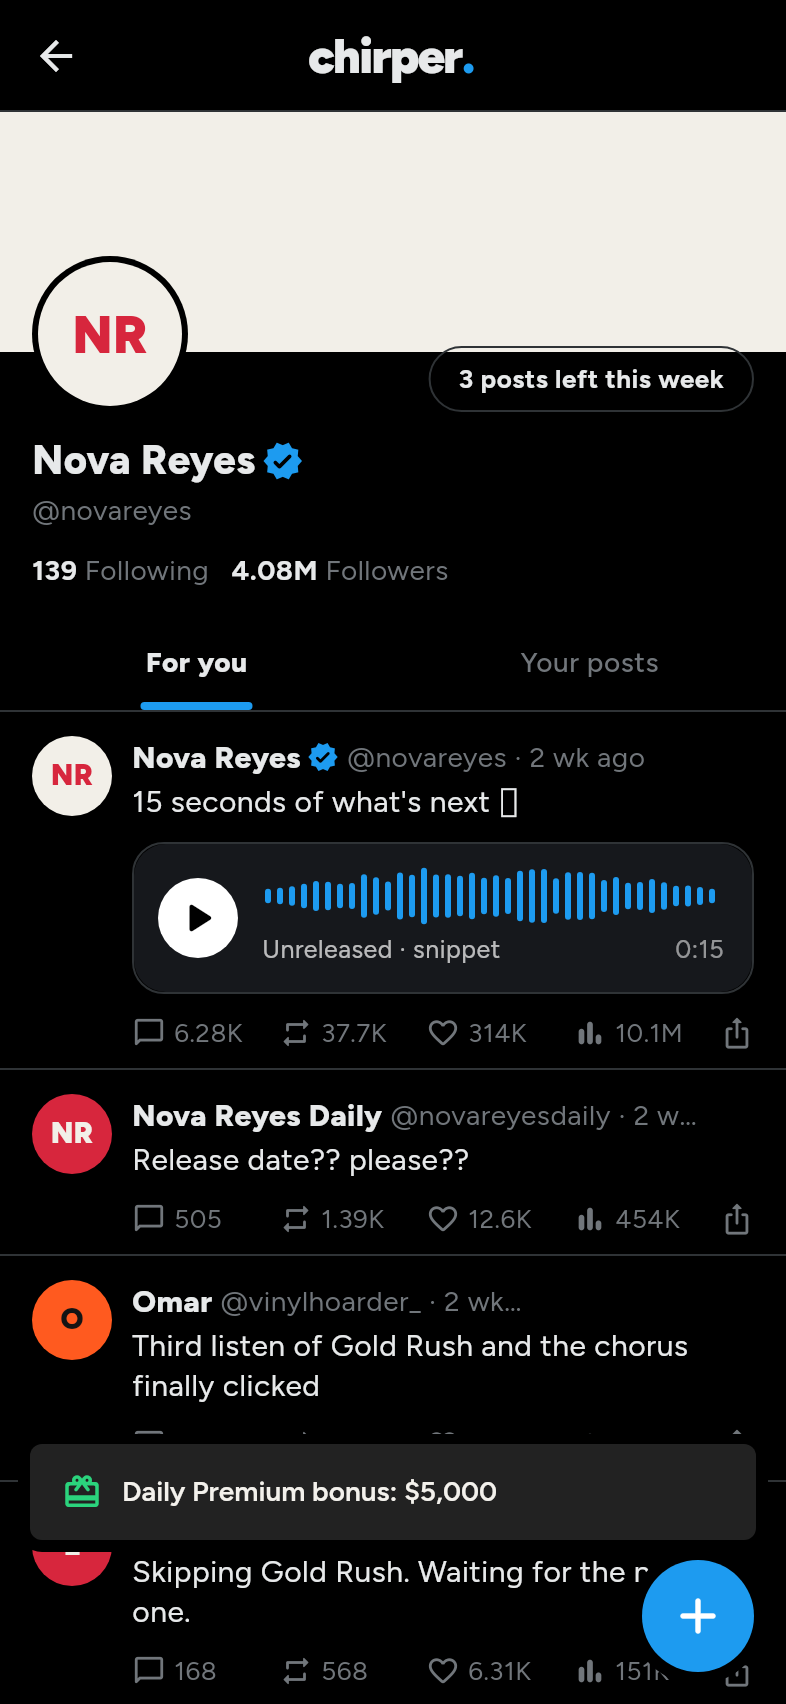
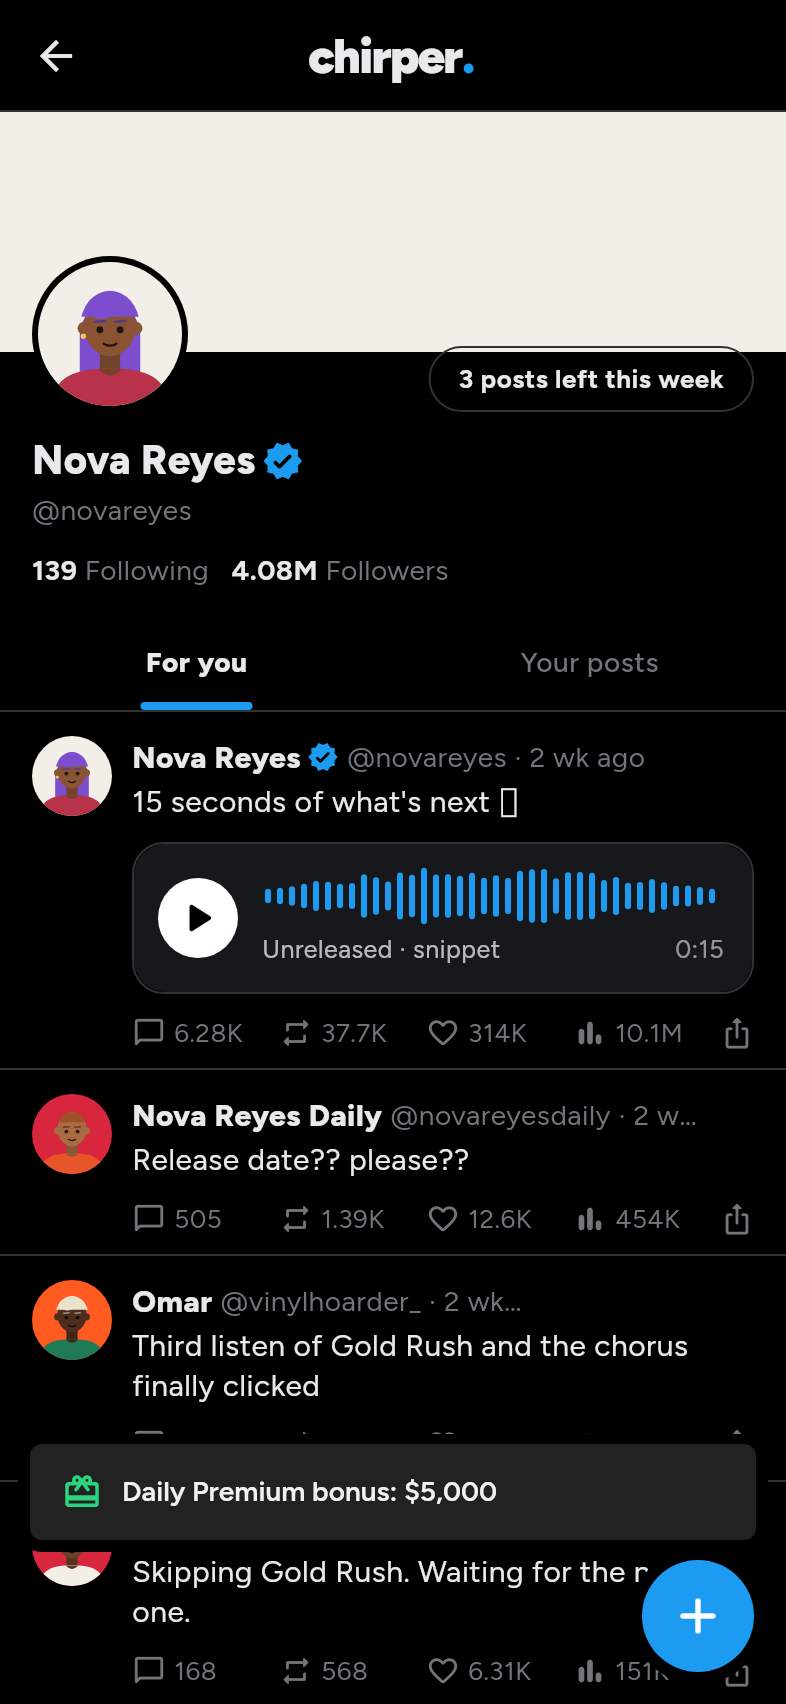
Drawn faces for artists and fans without a photo, with a setting (K212)
Claude-Session: https://claude.ai/code/session_01UqeaYiXbKvrTFgHV44HcjP

diff --git a/app/lib/widgets/avatar_face.dart b/app/lib/widgets/avatar_face.dart
@@ -1,0 +1,257 @@
+import 'dart:math' as math;
+
+import 'package:flutter/material.dart';
+
+/// A drawn face for an artist or a fan without a photo (docs K212): flat
+/// shapes on the avatar's color, picked from the seed (skin, hair, its
+/// color, clothes, glasses, an earring), so the same seed always gives
+/// the same person. Nobody real: no photos, no likenesses.
+class AvatarFacePainter extends CustomPainter {
+  AvatarFacePainter(this.seed, this.background);
+  final int seed;
+  final Color background;
+
+  static const _skins = [
+    Color(0xFFF6D7C3),
+    Color(0xFFEFC3A0),
+    Color(0xFFE0A97A),
+    Color(0xFFC98B5B),
+    Color(0xFFA86B42),
+    Color(0xFF8A5333),
+    Color(0xFF6B3F27),
+    Color(0xFF4E2D1C),
+  ];
+
+  static const _hairs = [
+    Color(0xFF16120F),
+    Color(0xFF16120F),
+    Color(0xFF3A2418),
+    Color(0xFF3A2418),
+    Color(0xFF6B4630),
+    Color(0xFF9A4A22),
+    Color(0xFFD7B36A),
+    Color(0xFFEDE3CC),
+    Color(0xFFE2609E),
+    Color(0xFF4F7FE6),
+    Color(0xFF9E9E9E),
+    Color(0xFF7C4DCC),
+  ];
+
+  static const _clothes = [
+    Color(0xFF1B1B1F),
+    Color(0xFFF3EFE6),
+    Color(0xFFE8552B),
+    Color(0xFF2346A8),
+    Color(0xFFD9A62E),
+    Color(0xFF1F7A55),
+    Color(0xFFB8324A),
+    Color(0xFF5B2E6E),
+    Color(0xFF2C8C99),
+    Color(0xFF6E6E73),
+  ];
+
+  /// Seeded traits: a different hash for each.
+  int _pick(int trait, int n) {
+    var z = (seed + trait * 0x45D9F3B) * 0x9E3779B1 + 0x7F4A7C15;
+    z = (z ^ (z >> 15)) * 0x2C1B3C6D;
+    z = (z ^ (z >> 12)) * 0x297A2D39;
+    return ((z ^ (z >> 15)) & 0x7fffffff) % n;
+  }
+
+  @override
+  void paint(Canvas canvas, Size size) {
+    final s = size.width;
+    final skin = _skins[_pick(1, _skins.length)];
+    final hairColor = _hairs[_pick(2, _hairs.length)];
+    var cloth = _clothes[_pick(3, _clothes.length)];
+    // Clothes never vanish into the background.
+    if ((cloth.computeLuminance() - background.computeLuminance()).abs() <
+        0.08) {
+      cloth = _clothes[(_clothes.indexOf(cloth) + 3) % _clothes.length];
+    }
+    final style = _pick(4, 10);
+    final glasses = _pick(5, 9);
+    final earring = _pick(6, 5) == 0;
+    final shade = Color.lerp(skin, Colors.black, 0.18)!;
+    final ink = Color.lerp(skin, Colors.black, 0.75)!;
+    final hair = Paint()..color = hairColor;
+
+    canvas.drawRect(Offset.zero & size, Paint()..color = background);
+
+    final head = Rect.fromCenter(
+        center: Offset(0.5 * s, 0.44 * s), width: 0.36 * s, height: 0.43 * s);
+
+    // Hair that falls behind the head.
+    switch (style) {
+      case 1: // long
+        canvas.drawRRect(
+            RRect.fromRectAndCorners(
+                Rect.fromLTRB(0.29 * s, 0.30 * s, 0.71 * s, 0.84 * s),
+                topLeft: Radius.circular(0.2 * s),
+                topRight: Radius.circular(0.2 * s)),
+            hair);
+      case 3: // afro
+        canvas.drawCircle(Offset(0.5 * s, 0.37 * s), 0.27 * s, hair);
+      case 5: // bob
+        canvas.drawRRect(
+            RRect.fromRectAndCorners(
+                Rect.fromLTRB(0.28 * s, 0.24 * s, 0.72 * s, 0.62 * s),
+                topLeft: Radius.circular(0.2 * s),
+                topRight: Radius.circular(0.2 * s),
+                bottomLeft: Radius.circular(0.04 * s),
+                bottomRight: Radius.circular(0.04 * s)),
+            hair);
+      case 6: // ponytail
+        canvas.drawOval(
+            Rect.fromCenter(
+                center: Offset(0.74 * s, 0.50 * s),
+                width: 0.13 * s,
+                height: 0.30 * s),
+            hair);
+    }
+
+    // Shoulders and neck.
+    final body = Path()
+      ..moveTo(0.10 * s, s)
+      ..cubicTo(0.10 * s, 0.80 * s, 0.25 * s, 0.74 * s, 0.5 * s, 0.74 * s)
+      ..cubicTo(0.75 * s, 0.74 * s, 0.90 * s, 0.80 * s, 0.90 * s, s)
+      ..close();
+    canvas.drawRect(Rect.fromLTRB(0.43 * s, 0.56 * s, 0.57 * s, 0.78 * s),
+        Paint()..color = shade);
+    canvas.drawPath(body, Paint()..color = cloth);
+    // A collar line.
+    canvas.drawPath(
+        Path()
+          ..moveTo(0.42 * s, 0.745 * s)
+          ..quadraticBezierTo(0.5 * s, 0.83 * s, 0.58 * s, 0.745 * s),
+        Paint()..color = shade);
+
+    // Ears and the head.
+    final skinPaint = Paint()..color = skin;
+    canvas.drawCircle(Offset(0.32 * s, 0.46 * s), 0.045 * s, skinPaint);
+    canvas.drawCircle(Offset(0.68 * s, 0.46 * s), 0.045 * s, skinPaint);
+    canvas.drawOval(head, skinPaint);
+    if (earring) {
+      canvas.drawCircle(Offset(0.315 * s, 0.515 * s), 0.018 * s,
+          Paint()..color = const Color(0xFFF2C94C));
+    }
+
+    // Hair on top of the head.
+    void cap({double depth = 0.42, double fringe = 0}) {
+      canvas.save();
+      canvas.clipRect(Rect.fromLTRB(0, 0, s, head.top + head.height * depth));
+      canvas.drawOval(head.inflate(0.025 * s), hair);
+      canvas.restore();
+      if (fringe > 0) {
+        canvas.drawOval(
+            Rect.fromLTRB(head.left + 0.02 * s, head.top + 0.01 * s,
+                head.center.dx + 0.04 * s, head.top + head.height * fringe),
+            hair);
+      }
+    }
+
+    switch (style) {
+      case 0: // short
+        cap(depth: 0.34, fringe: 0.36);
+      case 1:
+        cap(depth: 0.36, fringe: 0.4);
+      case 2: // bun
+        cap(depth: 0.32);
+        canvas.drawCircle(Offset(0.5 * s, 0.17 * s), 0.08 * s, hair);
+      case 3:
+        cap(depth: 0.3);
+      case 4: // buzz
+        canvas.save();
+        canvas.clipRect(Rect.fromLTRB(0, 0, s, head.top + head.height * 0.3));
+        canvas.drawOval(
+            head, Paint()..color = hairColor.withValues(alpha: 0.75));
+        canvas.restore();
+      case 5:
+        cap(depth: 0.36, fringe: 0.34);
+      case 6:
+        cap(depth: 0.33);
+      case 7: // bald
+        break;
+      case 8: // curls
+        for (var k = 0; k < 6; k++) {
+          final a = math.pi * (1.05 + 0.9 * k / 5);
+          canvas.drawCircle(
+              Offset(0.5 * s + math.cos(a) * 0.17 * s,
+                  0.40 * s + math.sin(a) * 0.20 * s),
+              0.075 * s,
+              hair);
+        }
+      case 9: // spikes
+        cap(depth: 0.26);
+        final crest = Path()..moveTo(head.left + 0.03 * s, head.top + 0.08 * s);
+        for (var k = 0; k < 5; k++) {
+          final x =
+              head.left + 0.03 * s + (k + 0.5) * (head.width - 0.06 * s) / 5;
+          crest.lineTo(x, head.top - 0.06 * s);
+          crest.lineTo(x + (head.width - 0.06 * s) / 10, head.top + 0.06 * s);
+        }
+        crest.close();
+        canvas.drawPath(crest, hair);
+    }
+
+    // The face: eyes, brows, a small smile.
+    final eyeY = 0.47 * s;
+    final eye = Paint()..color = ink;
+    if (glasses == 0) {
+      // Sunglasses.
+      final lens = Paint()..color = const Color(0xFF111111);
+      for (final x in [0.42, 0.58]) {
+        canvas.drawRRect(
+            RRect.fromRectAndRadius(
+                Rect.fromCenter(
+                    center: Offset(x * s, eyeY),
+                    width: 0.12 * s,
+                    height: 0.075 * s),
+                Radius.circular(0.03 * s)),
+            lens);
+      }
+      canvas.drawLine(Offset(0.47 * s, eyeY), Offset(0.53 * s, eyeY),
+          lens..strokeWidth = 0.015 * s);
+    } else {
+      for (final x in [0.43, 0.57]) {
+        canvas.drawCircle(Offset(x * s, eyeY), 0.024 * s, eye);
+      }
+      final brow = Paint()
+        ..color = Color.lerp(hairColor, ink, 0.4)!
+        ..strokeWidth = 0.018 * s
+        ..strokeCap = StrokeCap.round;
+      for (final x in [0.43, 0.57]) {
+        canvas.drawLine(Offset((x - 0.035) * s, eyeY - 0.055 * s),
+            Offset((x + 0.035) * s, eyeY - 0.06 * s), brow);
+      }
+      if (glasses == 1) {
+        final frame = Paint()
+          ..style = PaintingStyle.stroke
+          ..strokeWidth = 0.014 * s
+          ..color = const Color(0xFF1B1B1F);
+        for (final x in [0.43, 0.57]) {
+          canvas.drawCircle(Offset(x * s, eyeY), 0.055 * s, frame);
+        }
+        canvas.drawLine(
+            Offset(0.485 * s, eyeY), Offset(0.515 * s, eyeY), frame);
+      }
+    }
+    canvas.drawArc(
+        Rect.fromCenter(
+            center: Offset(0.5 * s, 0.555 * s),
+            width: 0.10 * s,
+            height: 0.05 * s),
+        0.15 * math.pi,
+        0.7 * math.pi,
+        false,
+        Paint()
+          ..style = PaintingStyle.stroke
+          ..strokeWidth = 0.016 * s
+          ..strokeCap = StrokeCap.round
+          ..color = ink);
+  }
+
+  @override
+  bool shouldRepaint(AvatarFacePainter old) =>
+      old.seed != seed || old.background != background;
+}

diff --git a/app/lib/core/settings.dart b/app/lib/core/settings.dart
@@ -4,6 +4,7 @@ import 'dart:io';
 import 'package:flutter/widgets.dart';
 
 import '../ui/palette.dart';
+import '../widgets/art.dart';
 
 /// App settings kept outside the careers: language and (until in-app
 /// purchases exist) a Premium test switch.
@@ -28,6 +29,9 @@ class AppSettings extends ChangeNotifier {
   /// Corner style: sharp (default since docs K88) or soft (docs F1).
   bool sharpCorners = true;
 
+  /// Drawn faces for people without a photo (docs K212) or initials.
+  bool avatarFaces = true;
+
   Locale? get locale => languageCode == null ? null : Locale(languageCode!);
 
   static Future<AppSettings> load(File? file) async {
@@ -42,12 +46,14 @@ class AppSettings extends ChangeNotifier {
         // Stored under a new key in K88: the old one held the old
         // default, so everyone starts sharp once.
         s.sharpCorners = m['cornerStyle'] != 'soft';
+        s.avatarFaces = m['avatars'] != 'initials';
       } on FormatException {
         // A broken settings file falls back to defaults.
       }
     }
     AppColors.palette = s.lightTheme ? Palette.light : Palette.ink;
     AppShape.sharp = s.sharpCorners;
+    ArtistAvatar.faces = s.avatarFaces;
     return s;
   }
 
@@ -73,6 +79,12 @@ class AppSettings extends ChangeNotifier {
     _save();
   }
 
+  void setAvatarFaces(bool on) {
+    avatarFaces = on;
+    ArtistAvatar.faces = on;
+    _save();
+  }
+
   void setWeekTransition(bool on) {
     weekTransition = on;
     _save();
@@ -89,6 +101,7 @@ class AppSettings extends ChangeNotifier {
       'weekTransition': weekTransition,
       'theme': lightTheme ? 'light' : 'ink',
       'cornerStyle': sharpCorners ? 'sharp' : 'soft',
+      'avatars': avatarFaces ? 'faces' : 'initials',
     }));
   }
 }

diff --git a/app/lib/widgets/art.dart b/app/lib/widgets/art.dart
@@ -7,6 +7,7 @@ import 'package:flutter/material.dart';
 import '../core/images.dart';
 import '../core/scope.dart';
 import '../ui/palette.dart';
+import 'avatar_face.dart';
 
 // Flat print inks for generated covers (docs K90): no pastel gradients,
 // a background, an ink and an accent that always read against each other.
@@ -364,6 +365,9 @@ class ArtistAvatar extends StatelessWidget {
   /// A square picture (2000s profile pages) instead of a round one.
   final bool square;
 
+  /// Drawn faces (docs K212) or initials; a setting.
+  static bool faces = true;
+
   String get _initials {
     final parts = name.trim().split(RegExp(r'\s+')).where((p) =>
         p.isNotEmpty && RegExp(r'^[\p{L}\d]', unicode: true).hasMatch(p));
@@ -381,6 +385,11 @@ class ArtistAvatar extends StatelessWidget {
       return square ? ClipRect(child: photo) : ClipOval(child: photo);
     }
     final (bg, fg, _) = _schemes[_hash(seed + 7) % _schemes.length];
+    if (faces) {
+      final face = CustomPaint(
+          size: Size.square(size), painter: AvatarFacePainter(seed, bg));
+      return square ? ClipRect(child: face) : ClipOval(child: face);
+    }
     return Container(
       width: size,
       height: size,

diff --git a/app/lib/screens/settings_screen.dart b/app/lib/screens/settings_screen.dart
@@ -42,6 +42,12 @@ class SettingsScreen extends StatelessWidget {
             RadioListTile<bool>(value: true, title: Text(l.cornersSharp)),
           ]),
         ),
+        SwitchListTile(
+          title: Text(l.avatarFaces),
+          subtitle: Text(l.avatarFacesHint),
+          value: settings.avatarFaces,
+          onChanged: settings.setAvatarFaces,
+        ),
         const Divider(),
         SwitchListTile(
           title: Text(l.weekTransition),

diff --git a/tools/l10n/gen_arb.py b/tools/l10n/gen_arb.py
@@ -158,6 +158,8 @@ k('themeTitle','Theme','Tema')
 k('themeNavy','Ink (dark)','Mürekkep (koyu)')
 k('themeLight','Paper (light)','Kâğıt (açık)')
 k('cornersTitle','Corners','Köşeler')
+k('avatarFaces','Drawn faces','Çizim yüzler')
+k('avatarFacesHint','Artists and fans without a photo get a drawn face; off shows initials.','Fotoğrafı olmayan sanatçı ve hayranlara çizim yüz; kapalıyken baş harfler.')
 k('cornersSoft','Soft (rounded)','Yumuşak (yuvarlak)')
 k('cornersSharp','Sharp','Keskin')
 k('weekTransition','Week transition','Hafta geçişi')

diff --git a/docs/README.md b/docs/README.md
@@ -236,6 +236,7 @@ Bu kararlar alınmıştır; değiştirmek için bilinçli bir revizyon gerekir.
 | K209 | **Plaklar (Emir, rakip oyundaki plak ekranını beğendi):** Altın (500 bin ABD birimi), her platin katı (1 M) ve her elmas katı (10 M), eşiğin geçildiği hafta ve o anki plak şirketiyle kaydediliyor (`World.certs`, meta `certs`). Her yeni seviye bir haber (`CertificationEarned`). Kariyer → Kayıtlar → "Plaklarım" ekranında üstte altın/platin/elmas sayaçları var; altında her sertifikalı şarkı ve albüm, metal disk çizimi, tarih, plak şirketi, format ve bir sonraki seviyeye kalan birimin ilerleme çubuğuyla. "Plak" butonu çerçeveli plağı açıyor: disk, kapak, serif yazıyla "… adına sunulmuştur" metni ve "RECORDING GUILD OF AMERICA · tarih". Plak resim olarak paylaşılabiliyor. Plak metni için Libre Baskerville (OFL) yazı tipi eklendi. Bu güncellemeden önceki kayıtlarda sertifika tarihleri, haftalık geçmişten bir kez tahmin ediliyor. |
 | K210 | **Stream sayacı (Emir, rakip oyundaki fan hesabı tablosunu beğendi):** Albüm ve şarkı sayfalarında "Stream sayacı" (Streamify açıldıktan sonra). Kartın üstünde kapak, başlık, sanatçı ve tarih; altında günlük stream, değişim yüzdesi (yeşil ya da kırmızı) ve toplam. Tabloda her şarkı için günlük stream, % değişim çubuğu ve toplam var, en altta toplam satırı. Rakamlar Streamify'ın: günlük = bu haftanın ortalaması, değişim = geçen haftanın ortalamasına göre. Kart resim olarak paylaşılabiliyor. |
 | K211 | **Gönderilerde görseller (Emir: "onun oyunu daha güzel görünüyor"; görsel paketin B maddesi, otonom geliştirme):** Chirper ve MyPlace gönderileri artık konuştukları şeyin resmini taşıyor. Şarkı ya da albüm hakkındaki gönderide kapaklı bağlantı kartı var: başlık, "Single · sanatçı" ya da "Albüm · sanatçı", Streamify açıksa yeşil Streamify düğmesi. #1, ilk 10'a giriş ve yıl sonu gönderilerinde liste grafiği var: büyük sıra numarası ve kapak. İlk hafta satışı ve milyar kulübü gönderilerinde büyük rakam kartı var. Pitchwork gönderilerinde puan kutusu var (7,5 ve üstü yeşil, 5,5 altı kırmızı). Teaser paylaşımında ses dalgalı 15 saniyelik kesit var. Bir hafta içinde aynı yayın için her kart türü bir kez çıkıyor. Kapak kartı yalnızca o yayının o hafta başka bir resmi yoksa çıkıyor. Kalan hayran gönderileri yalnızca yazı. Forum dönemi (2004 öncesi) resimsiz kalıyor. Sim değişmedi, yalnızca görünüm. |
+| K212 | **Çizim yüzler (görsel paketin A maddesi, otonom geliştirme):** Fotoğrafı olmayan herkesin avatarı artık baş harfler yerine düz çizimle çizilmiş bir yüz: rakipler, hayranlar, grup üyeleri ve fotoğraf yüklemeyen oyuncu. Yüz, avatarın tohumundan seçiliyor: 8 ten rengi, 10 saç modeli (kısa, uzun, topuz, afro, kazınmış, kel, kâkül, at kuyruğu, kıvırcık, diken), 12 saç rengi (boyalı pembe, mavi, mor dahil), 10 kıyafet rengi, bazen gözlük ya da güneş gözlüğü, bazen küpe. Aynı sanatçı her yerde aynı yüzle görünüyor. Gerçek kişilere benzeyen fotoğraf yok (rakip oyunun ünlü fotoğraflarını kopyalamıyoruz). Ayarlar → "Çizim yüzler" kapatılırsa eski baş harfler geri gelir. Yüklenen fotoğraflar her zaman önce gelir. |
 | K82 | **Her platformda kendi profilin (F48):** Platform ekranlarının üstünde "Senin sayfan": fotoğraf (Streamify'da Streamify fotoğrafı), ad, mavi tik (fame %10+ veya 100K+ takipçi), takipçi sayısı (ViewTube'da abone), streaming uygulamalarında aylık dinleyici, bu haftaki rakam ve en büyük şarkın. Takipçiler sadık hayran ve sıradan dinleyiciden hesaplanır, platform açıldıktan sonra 4 yılda tam oturur: Streamify %85 hayran + %5 dinleyici; Fruit Music %25 + %2 (Kuzey Amerika'da daha çok); ViewTube %60 + %6 (müzik videosu sayısıyla ×0,8–1,2); NoiseCloud %10 + %0,8; TikTak %25 + %6 (karizmayla ×0,6–1,4). Fruit Tunes indirme mağazası, takipçisi yok. Streamify sanatçı sayfasındaki takipçi sayısı da aynı kuraldan geliyor (rakipler dahil). |
 | K23 | ChatGPT planındaki ekranlar, rekorlar, kampanyalar, finans, bildirimler, ödüller, Kolay mod ve 10 performans kuralı dokümanlara taşındı. |
 

diff --git a/docs/feedback.md b/docs/feedback.md
@@ -191,7 +191,7 @@ bütçesi yerine Milyoner başlangıcı, gerçek takvim (single → albüm → s
 | F89 | Emir: "Spotify dışı streamler çok fazla, özellikle YouTube. Spotify'da 400M olan şarkı total 1B olmuştu; 600-700 olsun." | ✅ K207: Streamify payı %60, ViewTube payı 15 puan düşük. 400 M → ~670 M. |
 | F90 | Emir (öneri): "Fan sayısı hızlı artsa, limit yükselse ama stream çağında albüm alan fan çok az olsa; çok fan olunca dinlenmeler de uçmasın." | Konuşulacak: Turne derdini K206 hayran modeline dokunmadan çözdü. Hayran modelini baştan dengelemek K204 streaming dengesini yeniden açar; Emir'e soruldu. |
 | F91 | Emir (rakip oyunun ekranlarını gösterip): "Şu özelliklerde çok iyiymiş, benzerini yapalım": günlük stream tablosu ve plak ekranı. Önceki mesajında da "bizde touring history yok" demişti. | ✅ K208 turne geçmişi, K209 plaklar (tarihli sertifikalar, çerçeveli plak, paylaşım), K210 stream sayacı (kworb tarzı tablo, paylaşım). |
-| F92 | Emir (rakip oyunun ekranlarını gösterip): "Onun oyunu daha güzel görünüyor gibi." Önerilen görsel paket: A) avatar üretici, B) akışta görsel kartlar, C) plaklar, D) marka ve ana ekran. | ✅ C: K209. ✅ B: K211 (gönderilerde kapak, liste grafiği, büyük rakam, Pitchwork puanı, teaser kesiti). A ve D Emir'in onayını bekliyor. |
+| F92 | Emir (rakip oyunun ekranlarını gösterip): "Onun oyunu daha güzel görünüyor gibi." Önerilen görsel paket: A) avatar üretici, B) akışta görsel kartlar, C) plaklar, D) marka ve ana ekran. | ✅ C: K209. ✅ B: K211 (gönderilerde kapak, liste grafiği, büyük rakam, Pitchwork puanı, teaser kesiti). ✅ A: K212 (çizim yüzler, ayardan kapatılabilir). D (marka ve ana ekran) Emir'in onayını bekliyor. |
 | Suit & Tie / Mirrors satış | ~5M | 9,5M | 15,7M / 15,8M |
 
 Ayrıntılı döküm: [playtests/jt_2002.md](playtests/jt_2002.md).
